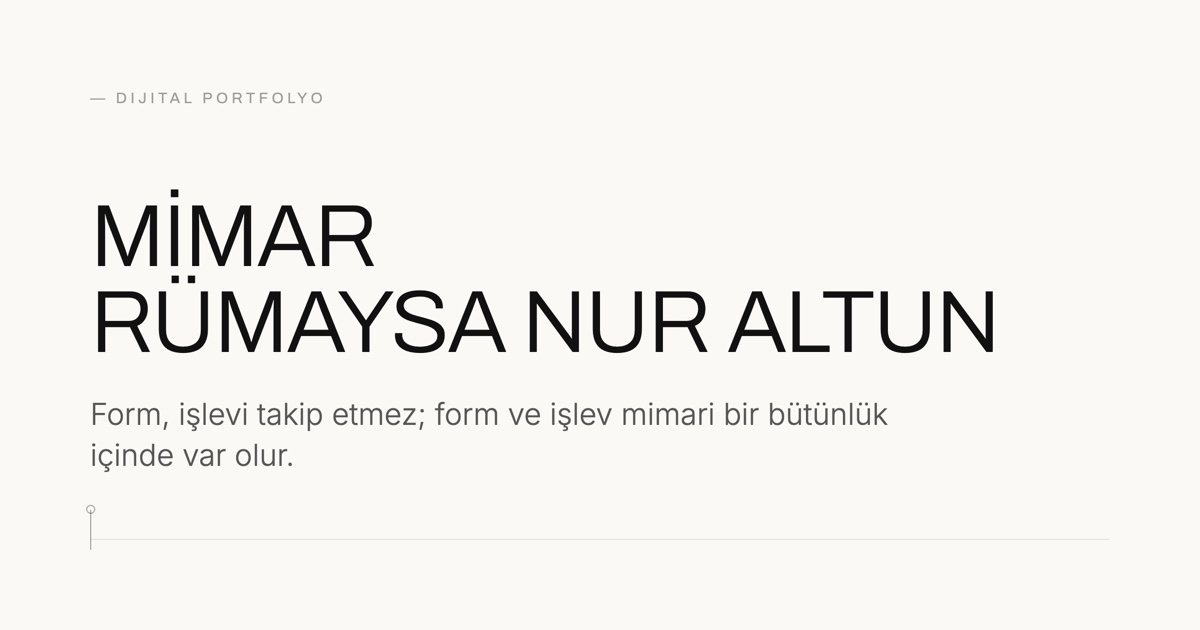
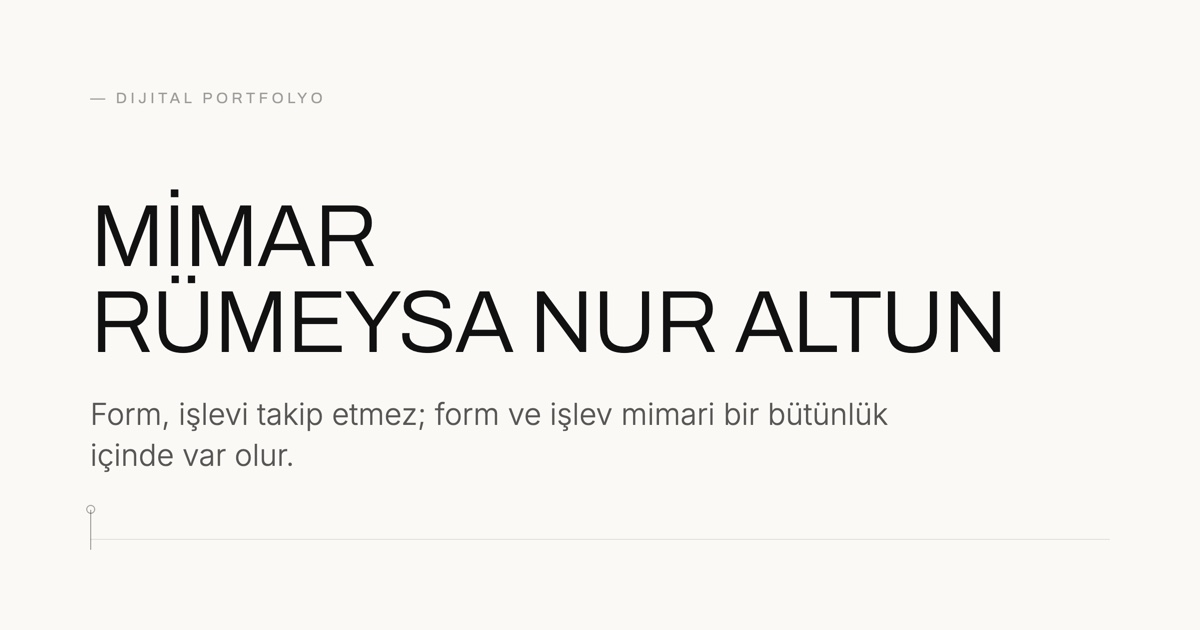
fix: scroll bar fix, improvements on UX

Changed region(s): [[0.2467, 0.4524, 0.8325, 0.573]]

diff --git a/src/data/contact.ts b/src/data/contact.ts
@@ -1,5 +1,5 @@
 export const contact = {
-  fullName: "Rümaysa Nur Altun",
+  fullName: "Rümeysa Nur Altun",
   title: "Mimar",
   email: "rumeysaaltunmimarlik@gmail.com",
   instagram: "https://instagram.com/rndmim",
